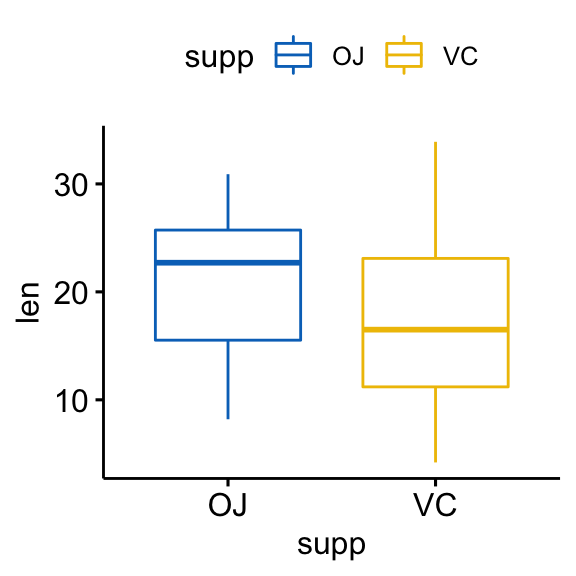
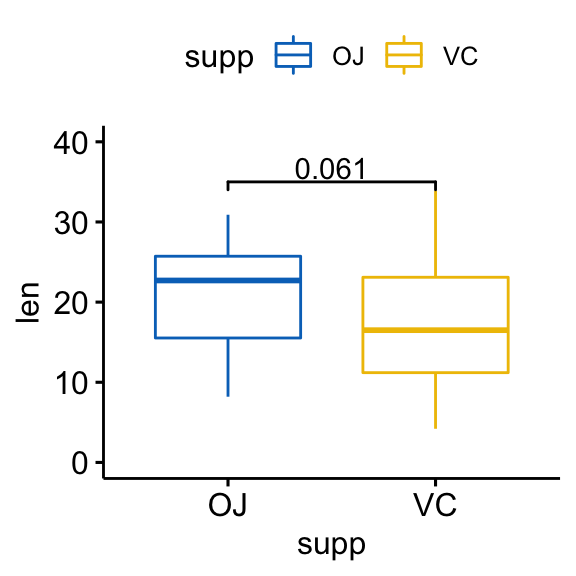
pkgdown updated

diff --git a/docs/reference/anova_test.html b/docs/reference/anova_test.html
@@ -1,0 +1,159 @@
+<!-- Generated by pkgdown: do not edit by hand -->
+<!DOCTYPE html>
+<html>
+  <head>
+  <meta charset="utf-8">
+<meta http-equiv="X-UA-Compatible" content="IE=edge">
+<meta name="viewport" content="width=device-width, initial-scale=1.0">
+
+<title>Anova Test — anova_test • rstatix</title>
+
+<!-- jquery -->
+<script src="https://code.jquery.com/jquery-3.1.0.min.js" integrity="sha384-nrOSfDHtoPMzJHjVTdCopGqIqeYETSXhZDFyniQ8ZHcVy08QesyHcnOUpMpqnmWq" crossorigin="anonymous"></script>
+<!-- Bootstrap -->
+<link href="https://maxcdn.bootstrapcdn.com/bootswatch/3.3.7/lumen/bootstrap.min.css" rel="stylesheet" crossorigin="anonymous">
+
+<script src="https://maxcdn.bootstrapcdn.com/bootstrap/3.3.7/js/bootstrap.min.js" integrity="sha384-Tc5IQib027qvyjSMfHjOMaLkfuWVxZxUPnCJA7l2mCWNIpG9mGCD8wGNIcPD7Txa" crossorigin="anonymous"></script>
+
+<!-- Font Awesome icons -->
+<link href="https://maxcdn.bootstrapcdn.com/font-awesome/4.6.3/css/font-awesome.min.css" rel="stylesheet" integrity="sha384-T8Gy5hrqNKT+hzMclPo118YTQO6cYprQmhrYwIiQ/3axmI1hQomh7Ud2hPOy8SP1" crossorigin="anonymous">
+
+
+<!-- pkgdown -->
+<link href="../pkgdown.css" rel="stylesheet">
+<script src="../jquery.sticky-kit.min.js"></script>
+<script src="../pkgdown.js"></script>
+
+<!-- mathjax -->
+<script src='https://cdn.mathjax.org/mathjax/latest/MathJax.js?config=TeX-AMS-MML_HTMLorMML'></script>
+
+<!--[if lt IE 9]>
+<script src="https://oss.maxcdn.com/html5shiv/3.7.3/html5shiv.min.js"></script>
+<script src="https://oss.maxcdn.com/respond/1.4.2/respond.min.js"></script>
+<![endif]-->
+  </head>
+
+  <body>
+    <div class="container template-reference-topic">
+      <header>
+      <div class="navbar navbar-default navbar-fixed-top" role="navigation">
+  <div class="container">
+    <div class="navbar-header">
+      <button type="button" class="navbar-toggle collapsed" data-toggle="collapse" data-target="#navbar">
+        <span class="icon-bar"></span>
+        <span class="icon-bar"></span>
+        <span class="icon-bar"></span>
+      </button>
+      <a class="navbar-brand" href="../index.html">rstatix</a>
+    </div>
+    <div id="navbar" class="navbar-collapse collapse">
+      <ul class="nav navbar-nav">
+        <li>
+  <a href="../reference/index.html">Reference</a>
+</li>
+<li>
+  <a href="../news/index.html">News</a>
+</li>
+      </ul>
+      
+      <ul class="nav navbar-nav navbar-right">
+        
+      </ul>
+    </div><!--/.nav-collapse -->
+  </div><!--/.container -->
+</div><!--/.navbar -->
+
+      
+      </header>
+
+      <div class="row">
+  <div class="col-md-9 contents">
+    <div class="page-header">
+    <h1>Anova Test</h1>
+    </div>
+
+    
+    <p>Provides a pipe-friendly framework to performs ANOVA tests.
+ Wrapper around the function <code><a href='http://www.rdocumentation.org/packages/car/topics/Anova'>Anova</a>()</code> in the <code>car</code> package.</p>
+    
+
+    <pre><span class='fu'>anova_test</span>(<span class='no'>data</span>, <span class='no'>formula</span>, <span class='no'>...</span>)</pre>
+    
+    <h2 class="hasAnchor" id="arguments"><a class="anchor" href="#arguments"></a> Arguments</h2>
+    <dl class="dl-horizontal">
+      <dt>data</dt>
+      <dd>a data.frame containing the variables in the formula.</dd>
+      <dt>formula</dt>
+      <dd>a formula of the form <code>x ~ group</code> where <code>x</code> is a
+numeric variable giving the data values and <code>group</code> is a factor with
+one or multiple levels giving the corresponding groups. For example,
+<code>formula = TP53 ~ cancer_group</code>.</dd>
+      <dt>...</dt>
+      <dd>other arguments to be passed to the function
+<code><a href='http://www.rdocumentation.org/packages/car/topics/Anova'>Anova</a></code>.</dd>
+    </dl>
+    
+    <h2 class="hasAnchor" id="value"><a class="anchor" href="#value"></a>Value</h2>
+
+    <p>return a data frame with the following columns: <ul>
+<li>
+ <code>.y.</code>: the y variable used in the test. </li>
+<li> <code>term</code>: the grouping
+ variable. </li>
+<li> <code>statistic</code>: Test statistic (F-statistic) used to compute the
+ p-value. </li>
+<li> <code>p</code>: p-value.
+ </li>
+<li> <code>method</code>: the statistical test used to compare groups.</li>
+</ul></p>
+    
+
+    <h2 class="hasAnchor" id="examples"><a class="anchor" href="#examples"></a>Examples</h2>
+    <pre class="examples"><div class='input'><span class='co'># Load data</span>
+<span class='co'>#:::::::::::::::::::::::::::::::::::::::</span>
+<span class='fu'>data</span>(<span class='st'>"ToothGrowth"</span>)
+<span class='no'>df</span> <span class='kw'>&lt;-</span> <span class='no'>ToothGrowth</span>
+
+<span class='co'># One-way Anova test</span>
+<span class='co'>#:::::::::::::::::::::::::::::::::::::::::</span>
+<span class='no'>df</span> <span class='kw'>%&gt;%</span> <span class='fu'>anova_test</span>(<span class='no'>len</span> ~ <span class='no'>dose</span>)</div><div class='output co'>#&gt; # A tibble: 1 x 4
+#&gt;     .y.  term statistic       p
+#&gt;   &lt;chr&gt; &lt;chr&gt;     &lt;dbl&gt;   &lt;dbl&gt;
+#&gt; 1   len  dose  105.0648 1.2e-14</div><div class='input'>
+<span class='co'># Two-way Anova test</span>
+<span class='co'>#:::::::::::::::::::::::::::::::::::::::::</span>
+<span class='no'>df</span> <span class='kw'>%&gt;%</span> <span class='fu'>anova_test</span>(<span class='no'>len</span> ~ <span class='no'>supp</span>*<span class='no'>dose</span>)</div><div class='output co'>#&gt; # A tibble: 3 x 4
+#&gt;     .y.      term  statistic       p
+#&gt;   &lt;chr&gt;     &lt;chr&gt;      &lt;dbl&gt;   &lt;dbl&gt;
+#&gt; 1   len      supp  12.317020 8.9e-04
+#&gt; 2   len      dose 133.415146 1.9e-16
+#&gt; 3   len supp:dose   5.333483 2.5e-02</div><div class='input'>
+</div></pre>
+  </div>
+  <div class="col-md-3 hidden-xs hidden-sm" id="sidebar">
+    <h2>Contents</h2>
+    <ul class="nav nav-pills nav-stacked">
+      <li><a href="#arguments">Arguments</a></li>
+      
+      <li><a href="#value">Value</a></li>
+      
+      <li><a href="#examples">Examples</a></li>
+    </ul>
+
+  </div>
+</div>
+
+      <footer>
+      <div class="copyright">
+  <p>Developed by Alboukadel Kassambara.</p>
+</div>
+
+<div class="pkgdown">
+  <p>Site built with <a href="http://hadley.github.io/pkgdown/">pkgdown</a>.</p>
+</div>
+
+      </footer>
+   </div>
+
+  </body>
+</html>

diff --git a/docs/index.html b/docs/index.html
@@ -64,6 +64,8 @@
 <li>
 <code><a href="reference/wilcox_test.html">wilcox_test()</a></code>: performs one-sample, two-sample and pairwise Wilcoxon tests</li>
 <li>
+<code><a href="reference/anova_test.html">anova_test()</a></code>: wrapper around <code>car:Anova()</code> to perform Anova test</li>
+<li>
 <code><a href="reference/adjust_pvalue.html">adjust_pvalue()</a></code>: add an adjusted p-values column to a data frame containing statistical test p-values</li>
 <li>
 <code><a href="reference/add_significance.html">add_significance()</a></code>: add a column containing the p-value significance level</li>
@@ -92,24 +94,28 @@ devtools<span class="op">::</span><span class="kw">install_github</span>(<span c
 <ul>
 <li>Two sample t-test</li>
 </ul>
-<div class="sourceCode"><pre class="sourceCode r"><code class="sourceCode r">ToothGrowth <span class="op">%&gt;%</span><span class="st"> </span>
-<span class="st">  </span><span class="kw"><a href="reference/t_test.html">t_test</a></span>(len <span class="op">~</span><span class="st"> </span>supp, <span class="dt">paired =</span> <span class="ot">FALSE</span>)
-<span class="co">#&gt; # A tibble: 1 x 6</span>
-<span class="co">#&gt;     .y. group1 group2 statistic     p method</span>
-<span class="co">#&gt;   &lt;chr&gt;  &lt;chr&gt;  &lt;chr&gt;     &lt;dbl&gt; &lt;dbl&gt;  &lt;chr&gt;</span>
-<span class="co">#&gt; 1   len     OJ     VC  1.915268 0.061 T-test</span>
+<div class="sourceCode"><pre class="sourceCode r"><code class="sourceCode r"><span class="co"># T-test</span>
+stat.test &lt;-<span class="st"> </span>ToothGrowth <span class="op">%&gt;%</span><span class="st"> </span>
+<span class="st">  </span><span class="kw"><a href="reference/t_test.html">t_test</a></span>(len <span class="op">~</span><span class="st"> </span>supp, <span class="dt">paired =</span> <span class="ot">FALSE</span>) <span class="op">%&gt;%</span>
+<span class="st">  </span><span class="kw"><a href="reference/reexports.html">mutate</a></span>(<span class="dt">y.position =</span> <span class="dv">35</span>)
+stat.test
+<span class="co">#&gt; # A tibble: 1 x 7</span>
+<span class="co">#&gt;     .y. group1 group2 statistic     p method y.position</span>
+<span class="co">#&gt;   &lt;chr&gt;  &lt;chr&gt;  &lt;chr&gt;     &lt;dbl&gt; &lt;dbl&gt;  &lt;chr&gt;      &lt;dbl&gt;</span>
+<span class="co">#&gt; 1   len     OJ     VC  1.915268 0.061 T-test         35</span>
 
-ToothGrowth <span class="op">%&gt;%</span><span class="st">  </span><span class="kw">ggboxplot</span>(
-  <span class="dt">x =</span> <span class="st">"supp"</span>, <span class="dt">y =</span> <span class="st">"len"</span>,
-  <span class="dt">color =</span> <span class="st">"supp"</span>, <span class="dt">palette =</span> <span class="st">"jco"</span>
-  )</code></pre></div>
+<span class="co"># Box plot</span>
+ToothGrowth <span class="op">%&gt;%</span><span class="st">  </span>
+<span class="st">  </span><span class="kw">ggboxplot</span>(<span class="dt">x =</span> <span class="st">"supp"</span>, <span class="dt">y =</span> <span class="st">"len"</span>, <span class="dt">color =</span> <span class="st">"supp"</span>, <span class="dt">palette =</span> <span class="st">"jco"</span>, <span class="dt">ylim =</span> <span class="kw">c</span>(<span class="dv">0</span>, <span class="dv">40</span>)) <span class="op">+</span>
+<span class="st">  </span><span class="kw">stat_pvalue_manual</span>(stat.test, <span class="dt">label =</span> <span class="st">"p"</span>)
+<span class="co">#&gt; Warning: Ignoring unknown aesthetics: xmin, xmax, annotations, y_position</span></code></pre></div>
 <p><img src="tools/README-two-sample-t-test-1.png" width="288"></p>
 <ul>
 <li>Compare supp levels after grouping the data by “dose”</li>
 </ul>
 <div class="sourceCode"><pre class="sourceCode r"><code class="sourceCode r"><span class="co"># Statistical test</span>
 ToothGrowth <span class="op">%&gt;%</span>
-<span class="st">  </span><span class="kw">group_by</span>(dose) <span class="op">%&gt;%</span>
+<span class="st">  </span><span class="kw"><a href="reference/reexports.html">group_by</a></span>(dose) <span class="op">%&gt;%</span>
 <span class="st">  </span><span class="kw"><a href="reference/t_test.html">t_test</a></span>(len <span class="op">~</span><span class="st"> </span>supp) <span class="op">%&gt;%</span>
 <span class="st">  </span><span class="kw"><a href="reference/adjust_pvalue.html">adjust_pvalue</a></span>() <span class="op">%&gt;%</span>
 <span class="st">  </span><span class="kw"><a href="reference/add_significance.html">add_significance</a></span>(<span class="st">"p.adj"</span>)

diff --git a/docs/reference/reexports.html b/docs/reference/reexports.html
@@ -6,7 +6,7 @@
 <meta http-equiv="X-UA-Compatible" content="IE=edge">
 <meta name="viewport" content="width=device-width, initial-scale=1.0">
 
-<title>Function reference • rstatix</title>
+<title>Objects exported from other packages — reexports • rstatix</title>
 
 <!-- jquery -->
 <script src="https://code.jquery.com/jquery-3.1.0.min.js" integrity="sha384-nrOSfDHtoPMzJHjVTdCopGqIqeYETSXhZDFyniQ8ZHcVy08QesyHcnOUpMpqnmWq" crossorigin="anonymous"></script>
@@ -34,7 +34,7 @@
   </head>
 
   <body>
-    <div class="container template-reference-index">
+    <div class="container template-reference-topic">
       <header>
       <div class="navbar navbar-default navbar-fixed-top" role="navigation">
   <div class="container">
@@ -67,63 +67,30 @@
       </header>
 
       <div class="row">
-  <div class="col-md-9">
+  <div class="col-md-9 contents">
     <div class="page-header">
-      <h1>Function reference</h1>
-      <h4>version&nbsp;0.1.0</h4>
+    <h1>Objects exported from other packages</h1>
     </div>
 
-    <div class="contents">
-      <h2 id="section-comparing-means" class="hasAnchor"><a href="#section-comparing-means" class="anchor"></a>Comparing Means</h2>
-      <p class="section-desc"></p>
-
-      
-      <p><a href="anova_test.html">Anova Test</a></p>
-      <ul>
-        <li><code><a href="anova_test.html">anova_test</a></code></li>
-      </ul>
-      
-      <p><a href="t_test.html">T-test</a></p>
-      <ul>
-        <li><code><a href="t_test.html">t_test</a></code></li><li><code><a href="t_test.html">one_sample_t_test</a></code></li><li><code><a href="t_test.html">two_sample_t_test</a></code></li><li><code><a href="t_test.html">pairwise_t_test</a></code></li><li><code><a href="t_test.html">pairwise_t_test_psd</a></code></li><li><code><a href="t_test.html">one_vs_all_t_test</a></code></li>
-      </ul>
-      
-      <p><a href="wilcox_test.html">Wilcoxon Tests</a></p>
-      <ul>
-        <li><code><a href="wilcox_test.html">wilcox_test</a></code></li><li><code><a href="wilcox_test.html">one_sample_wilcox_test</a></code></li><li><code><a href="wilcox_test.html">two_sample_wilcox_test</a></code></li><li><code><a href="wilcox_test.html">pairwise_wilcox_test</a></code></li><li><code><a href="wilcox_test.html">one_vs_all_wilcox_test</a></code></li>
-      </ul>
-          <h2 id="section-helpers" class="hasAnchor"><a href="#section-helpers" class="anchor"></a>Helpers</h2>
-      <p class="section-desc"></p>
-
-      
-      <p><a href="add_significance.html">Add P-value Significance Symbols</a></p>
-      <ul>
-        <li><code><a href="add_significance.html">add_significance</a></code></li>
-      </ul>
-      
-      <p><a href="adjust_pvalue.html">Adjust P-values for Multiple Comparisons</a></p>
-      <ul>
-        <li><code><a href="adjust_pvalue.html">adjust_pvalue</a></code></li>
-      </ul>
-          <h2 id="section-others" class="hasAnchor"><a href="#section-others" class="anchor"></a>Others</h2>
-      <p class="section-desc"></p>
-
-      
-      <p><a href="reexports.html">Objects exported from other packages</a></p>
-      <ul>
-        <li><code><a href="reexports.html">reexports</a></code></li><li><code><a href="reexports.html">%&gt;%</a></code></li><li><code><a href="reexports.html">reexports</a></code></li><li><code><a href="reexports.html">mutate</a></code></li><li><code><a href="reexports.html">reexports</a></code></li><li><code><a href="reexports.html">group_by</a></code></li>
-      </ul>
     
-    </div>
-  </div>
+    <p>These objects are imported from other packages. Follow the links
+below to see their documentation.</p>
 
+    <p><dl class='dl-horizontal'>
+  <dt>dplyr</dt><dd><code><a href='http://www.rdocumentation.org/packages/dplyr/topics/mutate'>mutate</a></code>, <code><a href='http://www.rdocumentation.org/packages/dplyr/topics/group_by'>group_by</a></code></dd></p>
+
+    <p><dt>magrittr</dt><dd><code>%&gt;%</code></dd>
+</dl></p>
+    
+
+        
+
+  </div>
   <div class="col-md-3 hidden-xs hidden-sm" id="sidebar">
     <h2>Contents</h2>
     <ul class="nav nav-pills nav-stacked">
-      <li><a href="#section-comparing-means">Comparing Means</a></li>
-      <li><a href="#section-helpers">Helpers</a></li>
-      <li><a href="#section-others">Others</a></li>
-    </ul>
+                </ul>
+
   </div>
 </div>
 

diff --git a/docs/reference/wilcox_test.html b/docs/reference/wilcox_test.html
@@ -205,7 +205,7 @@ variable levels against all (i.e. basemean)
 <span class='co'># Compare supp levels after grouping the data by "dose"</span>
 <span class='co'>#::::::::::::::::::::::::::::::::::::::::</span>
 <span class='no'>df</span> <span class='kw'>%&gt;%</span>
-  <span class='fu'>group_by</span>(<span class='no'>dose</span>) <span class='kw'>%&gt;%</span>
+  <span class='fu'><a href='reexports.html'>group_by</a></span>(<span class='no'>dose</span>) <span class='kw'>%&gt;%</span>
   <span class='fu'>wilcox_test</span>(<span class='kw'>data</span> <span class='kw'>=</span><span class='no'>.</span>, <span class='no'>len</span> ~ <span class='no'>supp</span>) <span class='kw'>%&gt;%</span>
   <span class='fu'><a href='adjust_pvalue.html'>adjust_pvalue</a></span>() <span class='kw'>%&gt;%</span>
   <span class='fu'><a href='add_significance.html'>add_significance</a></span>(<span class='st'>"p.adj"</span>)</div><div class='output co'>#&gt; # A tibble: 3 x 9

diff --git a/docs/reference/t_test.html b/docs/reference/t_test.html
@@ -220,7 +220,7 @@ variable levels against all (i.e. basemean)
 <span class='co'># Compare supp levels after grouping the data by "dose"</span>
 <span class='co'>#::::::::::::::::::::::::::::::::::::::::</span>
 <span class='no'>df</span> <span class='kw'>%&gt;%</span>
-  <span class='fu'>group_by</span>(<span class='no'>dose</span>) <span class='kw'>%&gt;%</span>
+  <span class='fu'><a href='reexports.html'>group_by</a></span>(<span class='no'>dose</span>) <span class='kw'>%&gt;%</span>
   <span class='fu'>t_test</span>(<span class='kw'>data</span> <span class='kw'>=</span><span class='no'>.</span>, <span class='no'>len</span> ~ <span class='no'>supp</span>) <span class='kw'>%&gt;%</span>
   <span class='fu'><a href='adjust_pvalue.html'>adjust_pvalue</a></span>() <span class='kw'>%&gt;%</span>
   <span class='fu'><a href='add_significance.html'>add_significance</a></span>(<span class='st'>"p.adj"</span>)</div><div class='output co'>#&gt; # A tibble: 3 x 9
